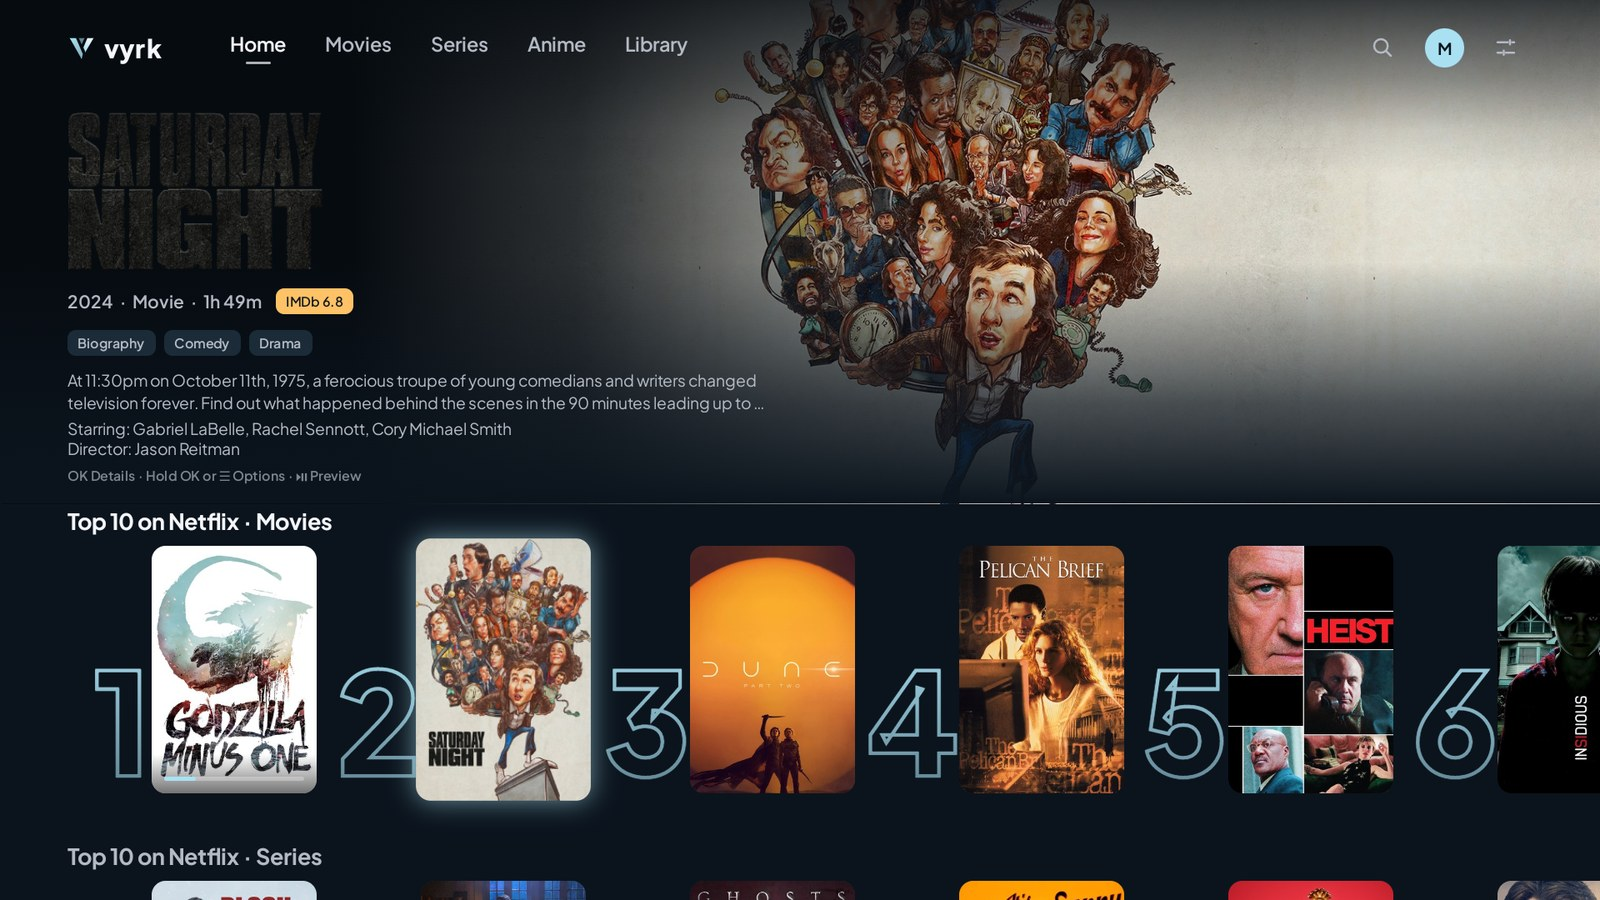
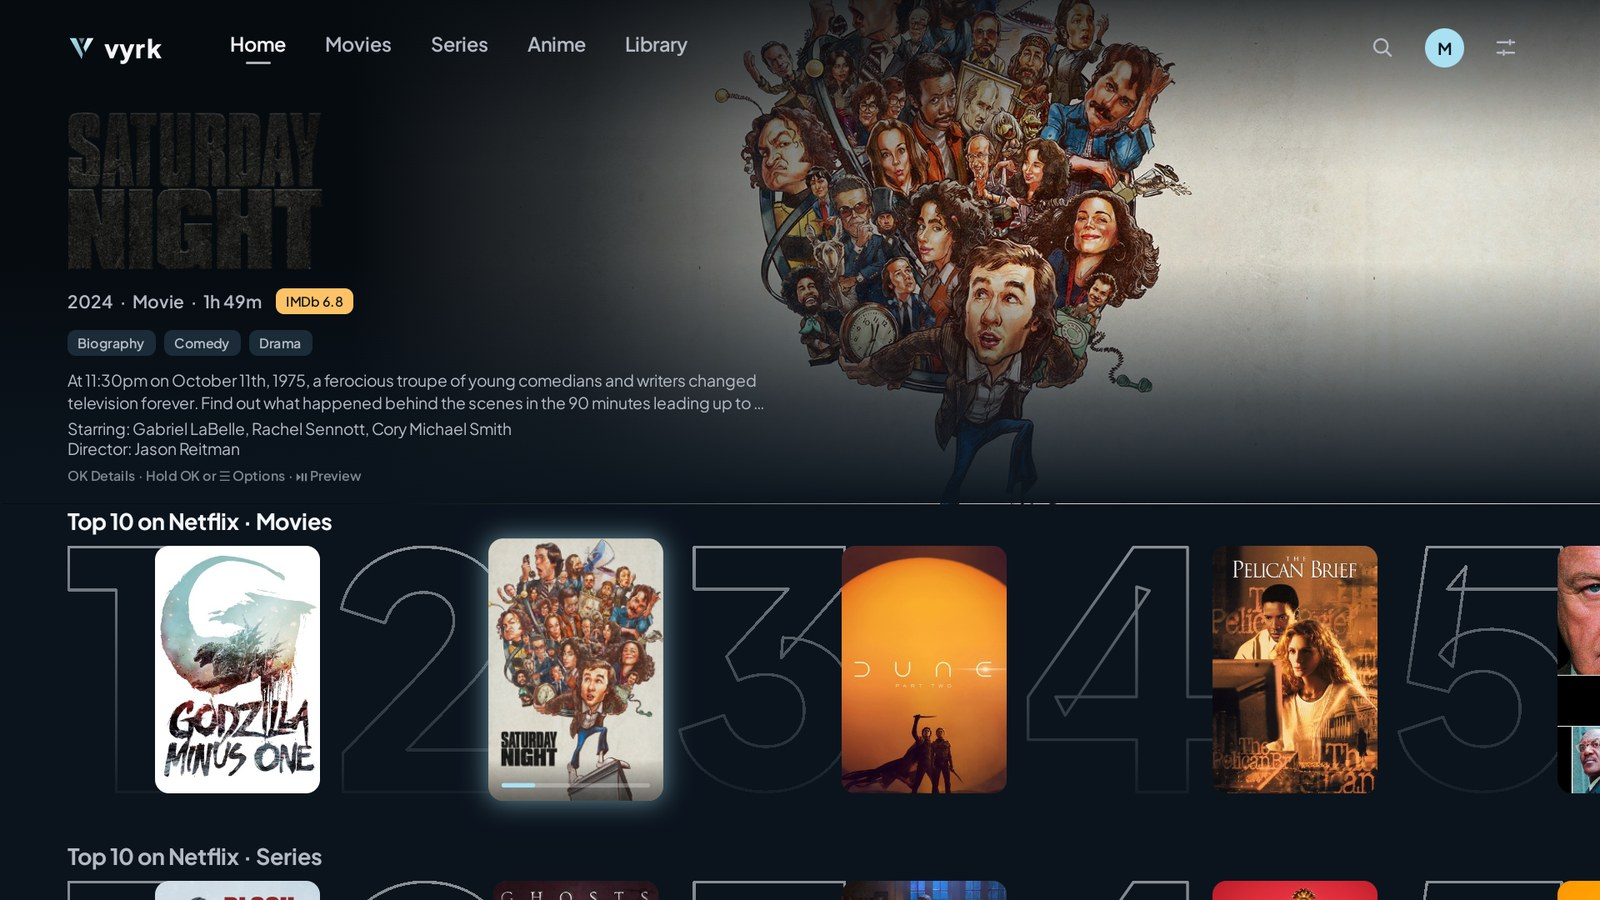
Release v0.1.4: changelog section, new Top 10 screenshots for README and website

diff --git a/CHANGELOG.md b/CHANGELOG.md
@@ -2,7 +2,7 @@
 
 All user-visible changes. Versions follow `vX.Y.Z` tags.
 
-## Unreleased
+## v0.1.4
 
 - Top 10 rows: the rank numbers are as tall as the posters, drawn as a thin outline that fades towards the bottom, with each poster over the number's edge.
 
